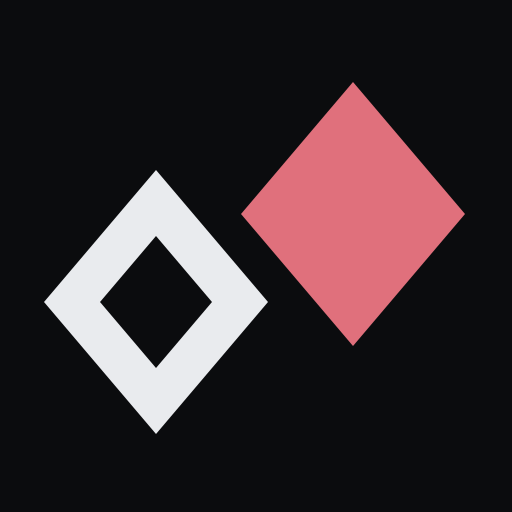
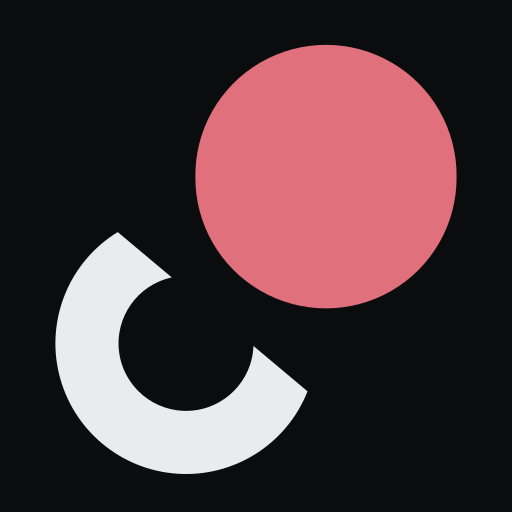
✨ feat(brand): redesign mark with single circle motif
- Updated mark concept from two diamonds to one circle, twice (open and whole)
- Rewrote brand documentation explaining new visual language and design rationale
- Regenerated all SVG and PNG assets with optimized file sizes
- Added new 32px icon variant for additional size coverage
- Adjusted lockup dimensions for better proportions (1311.7×275 → 1227.5×294)

Changed region(s): [[0.0938, 0.0625, 0.9062, 0.9375], [0.8125, 0.5, 0.8438, 0.5312], [0.7812, 0.5312, 0.8125, 0.5625]]

diff --git a/brand/README.md b/brand/README.md
@@ -5,14 +5,13 @@ Everything here is the source of truth for the mark. Take what you need from
 
 ## What the mark means
 
-Two diamonds: the same form in its two states, one empty and one filled. The
-board already speaks this language — `◇` is someone waiting on you, `◆` is you
-having answered — so the mark is that pair caught mid-turn. The diagonal seam
-between them is the only thing the product actually tracks: the boundary between
-their side and yours, and which side the piece is currently on.
+One circle, twice: once open and once whole, parted by a single straight cut.
+The open one is the side that has let it go; the full one is the side that holds
+it. The cut is the only thing this app actually tracks — which side of it the
+piece is currently on.
 
-Nothing about it depends on colour. Strip the palette and the empty form and the
-filled one still say which is which.
+An empty circle beside a full one needs no reference to trace, which is the
+point: provenance you have to look up is not provenance.
 
 ## Which file to use where
 
@@ -41,25 +40,25 @@ rsvg-convert -w 1024 -h 1024 brand/svg/icon.svg -o brand/png/icon-1024.png
 The accent is re-derived rather than reused on light: `#e0707c` is calibrated
 against near-black, where it reads about 7:1, and falls under 3:1 on white.
 
-> [!IMPORTANT]
-> **The hollow diamond has no `fill-rule="evenodd"`, and must not be given one.**
-> Its inner contour is wound anticlockwise against a clockwise outer, so the hole
-> is correct under both `nonzero` and `evenodd`. This matters because a renderer
-> that silently drops attributes — ImageMagick's SVG fallback is the usual
-> culprit, and it exits 0 while doing it — would produce a _solid_ diamond where
-> a hollow one belongs. Half the mark's meaning, gone, with nothing to show for
-> it in the output. Rasterise with `rsvg-convert`, and look at the result.
-
 > [!NOTE]
-> **No strokes anywhere.** Every form is a filled path, so the mark scales
+> **Every path is a single closed contour** — no compound paths, no holes. The
+> arc is outer-arc, line, inner-arc, close. That is deliberate: a hole depends on
+> `fill-rule` and winding order, which is exactly the sort of thing a fallback
+> SVG renderer drops while exiting 0 — turning a hollow form solid with nothing
+> in the output to say so. There is no hole here to lose.
+>
+> **No strokes anywhere either.** Every form is a filled path, so the mark scales
 > without a stroke width to keep in step, and no renderer has to agree with us
 > about how a hairline should behave.
 
 ## Known limits
 
-- **16px is too small.** It holds cleanly at 32px and above. Below that the
-  hollow counterform closes up — true of any mark built on one, and not fixable
-  without abandoning the idea.
+- **16px is too small.** It holds at 32px and above — verified by rendering it,
+  not asserted. Below that the arc's aperture closes up.
+- **The maskable variant sits at 0.82, not the usual 0.88.** This composition is
+  taller than it is wide, so its corner radius grows faster and 0.88 overshot the
+  safe circle. Verified by rendering the file under an actual circular crop
+  rather than by trusting the arithmetic.
 - **The lockup's lettering is outlined**, not live text. Charter Bold, the freely
   redistributable serif in the app's own `--font-serif` stack, with the font's
   own kerning applied and −24/1000 em tracking. There is no font dependency and
